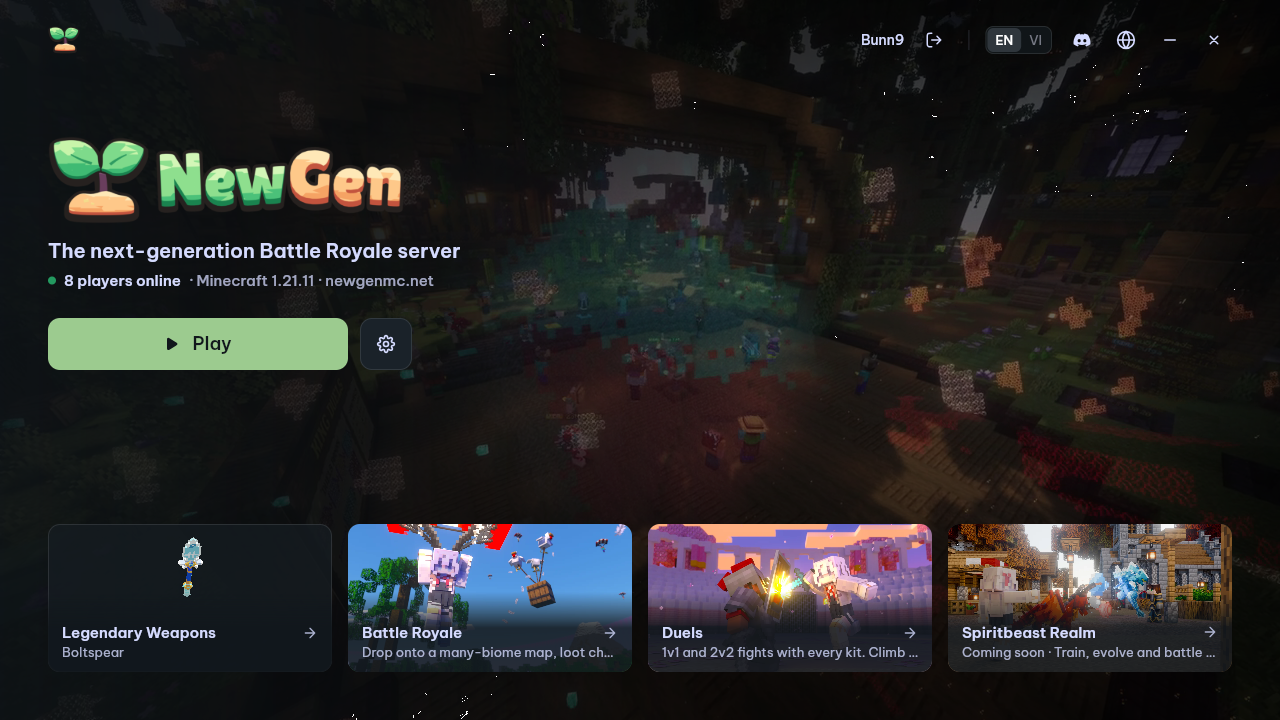
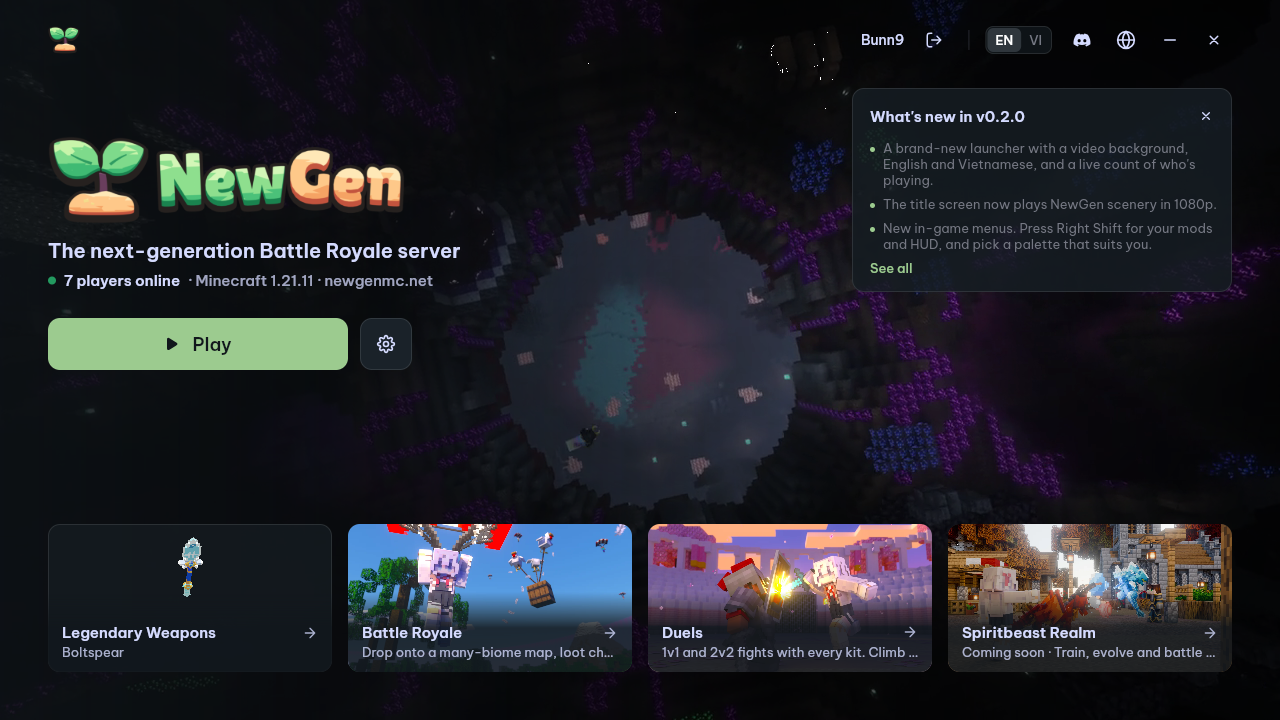
Launcher: What's new card, game language hand-off hardening, crash panel fixes
- Show-once "What's new" card (assets/newgen/whats-new.json, EN/VI)
- options.txt: strip BOM, atomic write; crash detection by report names
- Crash panel shows failures of Copy log / Open folder

diff --git a/launcher/src/game.rs b/launcher/src/game.rs
@@ -418,7 +418,7 @@ pub async fn launch(config: &Config, session: &Session, join_token: Option<Strin
     tokio::spawn(async move {
         let code = child.wait().await.ok().and_then(|status| status.code());
         release();
-        let new_report = crash_reports(&root) > reports_before;
+        let new_report = crash_reports(&root).difference(&reports_before).next().is_some();
         let _ = ui_close.send(LauncherEvent::GameClosed(code, is_crash(code, started.elapsed(), new_report)));
     });
     Ok(())
@@ -428,7 +428,8 @@ pub async fn launch(config: &Config, session: &Session, join_token: Option<Strin
 /// (creating it) only when there is no `lang:` line yet, so a language picked in game stays.
 pub fn ensure_game_language(file: &std::path::Path, code: &str) -> std::io::Result<()> {
     let mut text = match std::fs::read_to_string(file) {
-        Ok(text) => text,
+        // A byte-order mark would hide the first key (Minecraft does not read one either)
+        Ok(text) => text.strip_prefix('\u{feff}').map_or(text.clone(), str::to_string),
         Err(err) if err.kind() == std::io::ErrorKind::NotFound => String::new(),
         Err(err) => return Err(err),
     };
@@ -439,17 +440,22 @@ pub fn ensure_game_language(file: &std::path::Path, code: &str) -> std::io::Resu
         text.push('\n');
     }
     text.push_str(&format!("lang:{code}\n"));
-    std::fs::write(file, text)
+    // Written next to it, then moved over it: an interrupted write never truncates the options
+    let tmp = file.with_extension("txt.tmp");
+    std::fs::write(&tmp, text)?;
+    std::fs::rename(&tmp, file)
 }
 
 /// Files in the game's crash-reports folder.
-fn crash_reports(root: &std::path::Path) -> usize {
-    std::fs::read_dir(root.join("crash-reports")).map_or(0, |dir| dir.flatten().count())
+fn crash_reports(root: &std::path::Path) -> std::collections::BTreeSet<std::ffi::OsString> {
+    std::fs::read_dir(root.join("crash-reports")).map_or_else(|_| Default::default(), |dir| dir.flatten().map(|e| e.file_name()).collect())
 }
 
-/// A crash: Minecraft wrote a crash report, or it exited with an error within its first minute.
+/// A crash: Minecraft wrote a new crash report, or exited with an error code within its first
+/// minute. Without an exit code (stopped from outside, e.g. Task Manager) only a crash report
+/// counts; the launcher itself never stops the game.
 pub fn is_crash(code: Option<i32>, ran: Duration, new_report: bool) -> bool {
-    new_report || (code != Some(0) && ran < Duration::from_secs(60))
+    new_report || (code.is_some_and(|c| c != 0) && ran < Duration::from_secs(60))
 }
 
 #[cfg(test)]
@@ -467,14 +473,39 @@ mod tests {
         assert_eq!(std::fs::read_to_string(&file).unwrap(), "fov:0.5\ngamma:1.0\nlang:vi_vn\n");
         super::ensure_game_language(&file, "en_us").unwrap();
         assert_eq!(std::fs::read_to_string(&file).unwrap(), "fov:0.5\ngamma:1.0\nlang:vi_vn\n", "a set language stays");
+        assert!(!dir.join("options.txt.tmp").exists(), "written through a temporary file, moved over");
+        // A byte-order mark before an existing lang: line must not add a second one
+        std::fs::write(&file, "\u{feff}lang:en_us\nfov:0.5\n").unwrap();
+        super::ensure_game_language(&file, "vi_vn").unwrap();
+        assert_eq!(std::fs::read_to_string(&file).unwrap().matches("lang:").count(), 1);
+        // The key is matched like Minecraft does, case-sensitively
+        std::fs::write(&file, "LANG:xx\n").unwrap();
+        super::ensure_game_language(&file, "vi_vn").unwrap();
+        assert_eq!(std::fs::read_to_string(&file).unwrap(), "LANG:xx\nlang:vi_vn\n");
         let _ = std::fs::remove_dir_all(&dir);
+    }
+
+    #[test]
+    fn a_new_crash_report_is_found_by_name_not_count() {
+        let root = std::env::temp_dir().join(format!("newgen-crash-test-{}", std::process::id()));
+        let reports = root.join("crash-reports");
+        let _ = std::fs::remove_dir_all(&root);
+        std::fs::create_dir_all(&reports).unwrap();
+        std::fs::write(reports.join("old-1.txt"), "").unwrap();
+        let before = super::crash_reports(&root);
+        // One old report removed and a new one written: the count is the same
+        std::fs::remove_file(reports.join("old-1.txt")).unwrap();
+        std::fs::write(reports.join("new-2.txt"), "").unwrap();
+        assert_eq!(super::crash_reports(&root).difference(&before).count(), 1);
+        let _ = std::fs::remove_dir_all(&root);
     }
 
     #[test]
     fn crash_rules() {
         use std::time::Duration;
         assert!(super::is_crash(Some(1), Duration::from_secs(10), false));
-        assert!(super::is_crash(None, Duration::from_secs(10), false));
+        assert!(!super::is_crash(None, Duration::from_secs(10), false), "stopped from outside, no report");
+        assert!(super::is_crash(None, Duration::from_secs(10), true), "stopped from outside, with a report");
         assert!(!super::is_crash(Some(0), Duration::from_secs(10), false), "a clean quit");
         assert!(!super::is_crash(Some(1), Duration::from_secs(600), false), "an error after a long session");
         assert!(super::is_crash(Some(0), Duration::from_secs(600), true), "a crash report always counts");

diff --git a/launcher/src/ui/whats_new.rs b/launcher/src/ui/whats_new.rs
@@ -1,0 +1,85 @@
+//! "What's new" card on Home (docs/ui-spec.md): the bundled changelog for this version, shown on
+//! the first start after an update, three lines then "See all", dismissable. It sits top right,
+//! where the side panels open, and steps aside while one is open; it never covers Play.
+
+use freya::prelude::*;
+
+use super::app::{EDGE, border, text, use_lang};
+use super::components::{Button, Icon, IconType};
+use super::theme::{self, with_alpha as a};
+use crate::config::VERSION;
+use crate::i18n::{S, fill};
+use crate::{settings, whats_new};
+
+/// Lines shown before "See all"
+const FIRST_LINES: usize = 3;
+
+#[derive(PartialEq)]
+pub struct WhatsNewCard {
+    /// A side panel is open in its place
+    pub hidden: bool,
+}
+
+impl Component for WhatsNewCard {
+    fn render(&self) -> impl IntoElement {
+        let lang = use_lang();
+        // Decided once per launch; marked as seen as soon as it shows, so it shows once
+        let entry = use_hook(|| {
+            let entry = whats_new::to_show(&whats_new::bundled(), VERSION, settings::last_seen_version().as_deref()).cloned();
+            if entry.is_some() {
+                settings::save_last_seen_version(VERSION);
+            }
+            entry
+        });
+        let mut open = use_state(|| true);
+        let mut expanded = use_state(|| false);
+
+        let Some(entry) = entry.filter(|_| open() && !self.hidden) else { return rect() };
+        let lines = entry.lines(lang);
+        let shown = if expanded() { lines.len() } else { lines.len().min(FIRST_LINES) };
+        let more = lines.len() > FIRST_LINES;
+
+        rect()
+            .position(Position::new_absolute().top(8.).right(EDGE))
+            .width(Size::px(380.))
+            .layer(Layer::Relative(5))
+            .padding(Gaps::new(12., 10., 16., 18.))
+            .spacing(8.)
+            .corner_radius(theme::rounded(12.))
+            .background(a(theme::page_elevated(), 215))
+            .border(border())
+            .child(
+                rect()
+                    .horizontal()
+                    .width(Size::fill())
+                    .content(Content::Flex)
+                    .cross_align(Alignment::Center)
+                    .child(text(fill(lang.text(S::WhatsNew), &[&entry.version]), 15., FontWeight::SEMI_BOLD, theme::fg_primary()).width(Size::flex(1.)))
+                    .child(
+                        Button::new()
+                            .ghost()
+                            .icon()
+                            .alt(lang.text(S::Close))
+                            .on_press(move |_| open.set(false))
+                            .child(Icon::new(IconType::X).size(16.)),
+                    ),
+            )
+            .children(lines[..shown].iter().map(|line| {
+                rect()
+                    .horizontal()
+                    .width(Size::fill())
+                    .content(Content::Flex)
+                    .spacing(8.)
+                    .child(rect().margin(Gaps::new(7., 0., 0., 0.)).width(Size::px(5.)).height(Size::px(5.)).corner_radius(theme::rounded(3.)).background(theme::play()))
+                    .child(text(line.clone(), 13., FontWeight::NORMAL, theme::fg_secondary()).width(Size::flex(1.)))
+                    .into_element()
+            }))
+            .maybe_child(more.then(|| {
+                rect()
+                    .cursor(CursorIcon::Pointer)
+                    .a11y_role(AccessibilityRole::Button)
+                    .on_press(move |_| expanded.toggle())
+                    .child(text(lang.text(if expanded() { S::ShowLess } else { S::SeeAll }), 13., FontWeight::MEDIUM, theme::play()))
+            }))
+    }
+}

diff --git a/launcher/src/ui/home.rs b/launcher/src/ui/home.rs
@@ -11,6 +11,7 @@ use super::cards::SiteCards;
 use super::components::{Button, Icon, IconType};
 use super::settings_panel::SettingsPanel;
 use super::theme::{self, with_alpha as a};
+use super::whats_new::WhatsNewCard;
 use crate::auth::{self, Session};
 use crate::burst::Burst;
 use crate::config::config;
@@ -236,9 +237,10 @@ impl Component for Home {
             .height(Size::px(app::HEIGHT - theme::NAVBAR_HEIGHT_PX))
             .child(hero)
             .child(SiteCards {})
+            .child(WhatsNewCard { hidden: log_open || settings_open })
             .maybe_child(log_open.then(|| log_panel(s, lang.text(S::GameLog), lang.text(S::CloseGameLog))))
             .maybe_child(settings_open.then(|| SettingsPanel { shared: s }))
-            .maybe_child(s.crash.read().clone().map(|lines| crash_panel(s, lines, lang)))
+            .maybe_child(s.crash.read().clone().map(|lines| CrashPanel { shared: s, lines }))
     }
 }
 
@@ -298,7 +300,19 @@ pub fn side_panel(width: f32, title: &'static str, close_alt: &'static str, on_c
 
 /// After a crash: what happened, the last log lines, Copy log / Open crash reports folder / Close.
 /// Centred over the screen on a dim backdrop that takes the clicks.
-fn crash_panel(s: Shared, lines: Vec<String>, lang: crate::i18n::Lang) -> Rect {
+#[derive(PartialEq)]
+struct CrashPanel {
+    shared: Shared,
+    lines: Vec<String>,
+}
+
+impl Component for CrashPanel {
+    fn render(&self) -> impl IntoElement {
+        crash_panel(self.shared, self.lines.clone(), use_lang(), use_state(|| None::<S>))
+    }
+}
+
+fn crash_panel(s: Shared, lines: Vec<String>, lang: crate::i18n::Lang, mut note: State<Option<S>>) -> Rect {
     let mut crash = s.crash;
     let log_text = lines.join("\n");
     let reports = paths::game_dir().join("crash-reports");
@@ -350,16 +364,20 @@ fn crash_panel(s: Shared, lines: Vec<String>, lang: crate::i18n::Lang) -> Rect {
                         .child(button(lang.text(S::CopyLog)).on_press(move |_| {
                             if let Err(err) = freya::clipboard::Clipboard::set(log_text.clone()) {
                                 tracing::warn!("could not copy the log: {err:?}");
+                                note.set(Some(S::CopyFailed));
                             }
                         }))
                         .child(button(lang.text(S::OpenCrashReports)).on_press(move |_| {
                             let _ = std::fs::create_dir_all(&reports);
                             if let Err(err) = open::that(&reports) {
                                 tracing::warn!("could not open {}: {err}", reports.display());
+                                note.set(Some(S::OpenFolderFailed));
                             }
                         }))
                         .child(button(lang.text(S::Close)).on_press(move |_| crash.set(None))),
-                ),
+                )
+                // A button that did not work says so here
+                .maybe_child((*note.read()).map(|n| text(lang.text(n), 13., FontWeight::MEDIUM, theme::danger()))),
         )
 }
 

diff --git a/launcher/src/whats_new.rs b/launcher/src/whats_new.rs
@@ -1,0 +1,74 @@
+//! "What's new": the changelog shipped with each build (`assets/newgen/whats-new.json`,
+//! `[{ "version": "0.2.0", "en": [...], "vi": [...] }]`), shown once on Home after the launcher's
+//! version changes. The last version shown is kept in settings.json.
+
+use serde::Deserialize;
+
+use crate::i18n::Lang;
+
+#[derive(Debug, Clone, Deserialize, PartialEq)]
+pub struct Entry {
+    pub version: String,
+    #[serde(default)]
+    pub en: Vec<String>,
+    #[serde(default)]
+    pub vi: Vec<String>,
+}
+
+impl Entry {
+    /// The lines in `lang`, falling back to the other language when that list is empty.
+    pub fn lines(&self, lang: Lang) -> &[String] {
+        let (first, other) = if lang == Lang::Vi { (&self.vi, &self.en) } else { (&self.en, &self.vi) };
+        if first.is_empty() { other } else { first }
+    }
+}
+
+pub fn parse(json: &[u8]) -> Vec<Entry> {
+    serde_json::from_slice(json).unwrap_or_default()
+}
+
+/// The entry to show: the one for `current` when it has lines and was not shown before.
+pub fn to_show<'a>(entries: &'a [Entry], current: &str, last_seen: Option<&str>) -> Option<&'a Entry> {
+    if last_seen == Some(current) {
+        return None;
+    }
+    entries.iter().find(|e| e.version == current && !(e.en.is_empty() && e.vi.is_empty()))
+}
+
+/// The bundled changelog.
+pub fn bundled() -> Vec<Entry> {
+    crate::ui::assets::Assets::get_bytes("newgen/whats-new.json").map(|bytes| parse(&bytes)).unwrap_or_default()
+}
+
+#[cfg(test)]
+mod tests {
+    use super::*;
+
+    fn entries() -> Vec<Entry> {
+        parse(br#"[{"version":"0.2.0","en":["a","b"],"vi":["x"]},{"version":"0.3.0","en":["c"]},{"version":"0.4.0"}]"#)
+    }
+
+    #[test]
+    fn shown_once_per_new_version() {
+        let all = entries();
+        assert_eq!(to_show(&all, "0.2.0", None).map(|e| e.version.as_str()), Some("0.2.0"), "first start");
+        assert!(to_show(&all, "0.2.0", Some("0.2.0")).is_none(), "already shown");
+        assert_eq!(to_show(&all, "0.3.0", Some("0.2.0")).map(|e| e.version.as_str()), Some("0.3.0"), "after an update");
+        assert!(to_show(&all, "0.4.0", Some("0.3.0")).is_none(), "an entry without lines");
+        assert!(to_show(&all, "0.5.0", Some("0.3.0")).is_none(), "no entry for this version");
+    }
+
+    #[test]
+    fn lines_follow_the_language_with_a_fallback() {
+        let all = entries();
+        assert_eq!(all[0].lines(Lang::Vi), ["x"]);
+        assert_eq!(all[1].lines(Lang::Vi), ["c"], "no Vietnamese: English");
+    }
+
+    #[test]
+    fn bundled_changelog_has_this_version() {
+        let all = bundled();
+        let entry = all.iter().find(|e| e.version == crate::config::VERSION).expect("an entry for this version");
+        assert!(!entry.en.is_empty() && !entry.vi.is_empty());
+    }
+}

diff --git a/launcher/src/i18n.rs b/launcher/src/i18n.rs
@@ -89,11 +89,17 @@ strings! {
     VersionFileFailed: "Could not download the game's version file: {}", "Không tải được file phiên bản của game: {}";
     MinecraftDownloadFailed: "Could not download Minecraft: {}", "Không tải được Minecraft: {}";
     MinecraftStartFailed: "Minecraft failed to start ({}). Check the game log.", "Minecraft không khởi động được ({}). Hãy xem nhật ký game.";
+    // What's new
+    WhatsNew: "What's new in v{}", "Có gì mới trong bản v{}";
+    SeeAll: "See all", "Xem tất cả";
+    ShowLess: "Show less", "Thu gọn";
     // Crash panel
     CrashTitle: "Minecraft closed unexpectedly", "Minecraft đã đóng bất ngờ";
     CrashHint: "The last lines of the game log:", "Những dòng cuối trong nhật ký game:";
     CopyLog: "Copy log", "Sao chép log";
     OpenCrashReports: "Open crash reports folder", "Mở thư mục báo cáo lỗi";
+    CopyFailed: "Could not copy the log", "Không sao chép được log";
+    OpenFolderFailed: "Could not open the folder", "Không mở được thư mục";
 }
 
 static LANG: AtomicU8 = AtomicU8::new(0);

diff --git a/launcher/src/ui/theme.rs b/launcher/src/ui/theme.rs
@@ -225,6 +225,8 @@ mod tests {
         }
         let sections = Assets::get_bytes("newgen/site/sections.json").expect("sections are embedded");
         text.push_str(std::str::from_utf8(&sections).expect("utf-8"));
+        let changelog = Assets::get_bytes("newgen/whats-new.json").expect("changelog is embedded");
+        text.push_str(std::str::from_utf8(&changelog).expect("utf-8"));
         text.chars().filter(|c| !c.is_control() && *c != ' ').collect()
     }
 

diff --git a/launcher/src/settings.rs b/launcher/src/settings.rs
@@ -81,6 +81,15 @@ pub fn save_lang(code: &str) {
     save("language", Value::String(code.to_string()));
 }
 
+/// The launcher version whose "What's new" was last shown.
+pub fn last_seen_version() -> Option<String> {
+    load().get("lastSeenVersion").and_then(Value::as_str).map(str::to_string)
+}
+
+pub fn save_last_seen_version(version: &str) {
+    save("lastSeenVersion", Value::String(version.to_string()));
+}
+
 #[cfg(test)]
 mod tests {
     use super::*;

diff --git a/launcher/src/main.rs b/launcher/src/main.rs
@@ -5,6 +5,7 @@ mod burst;
 mod config;
 mod game;
 mod i18n;
+mod whats_new;
 mod mods;
 mod paths;
 mod settings;

diff --git a/launcher/src/ui/mod.rs b/launcher/src/ui/mod.rs
@@ -5,4 +5,5 @@ pub mod components;
 mod home;
 mod login;
 mod settings_panel;
+mod whats_new;
 pub mod theme;
